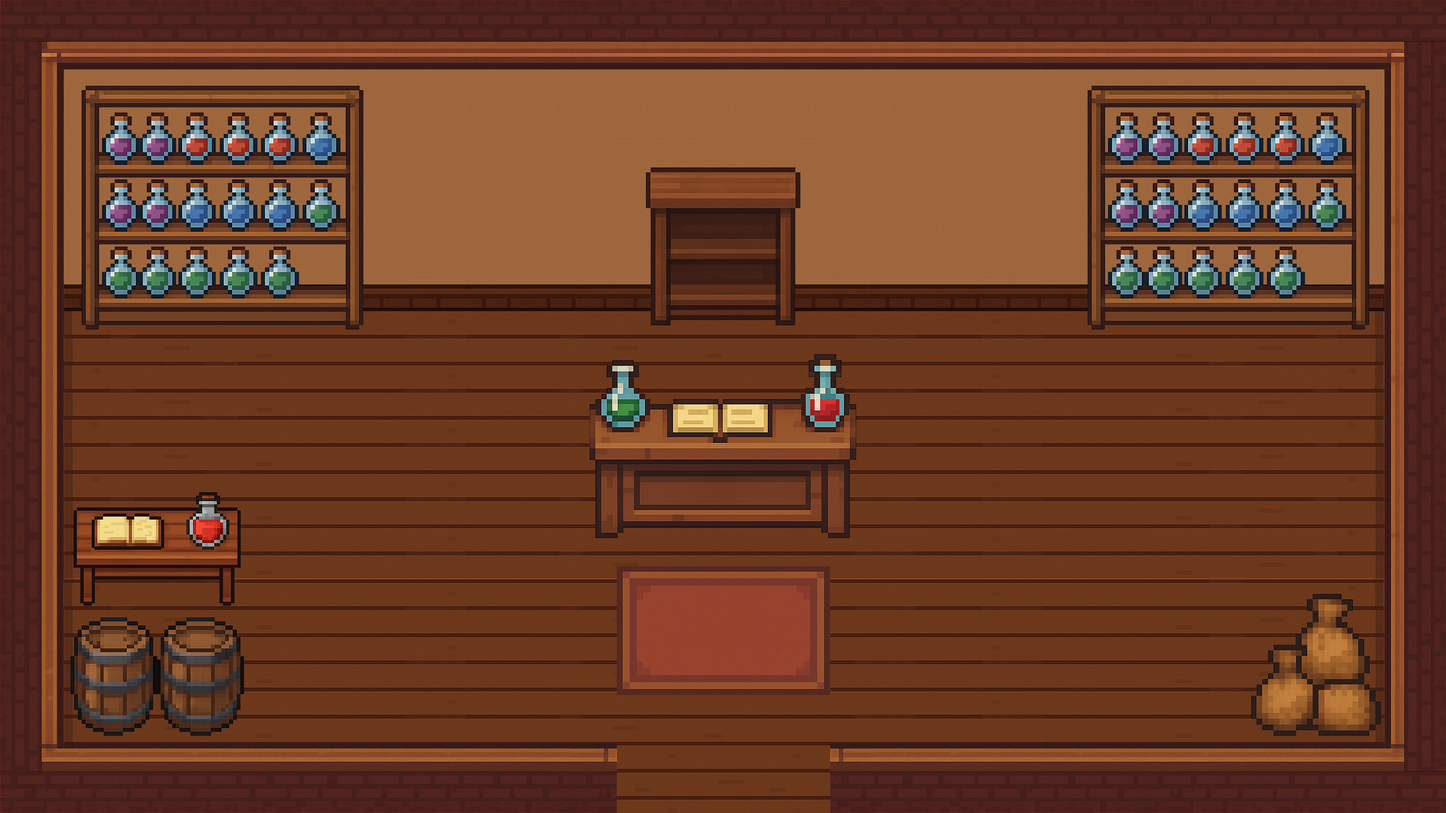
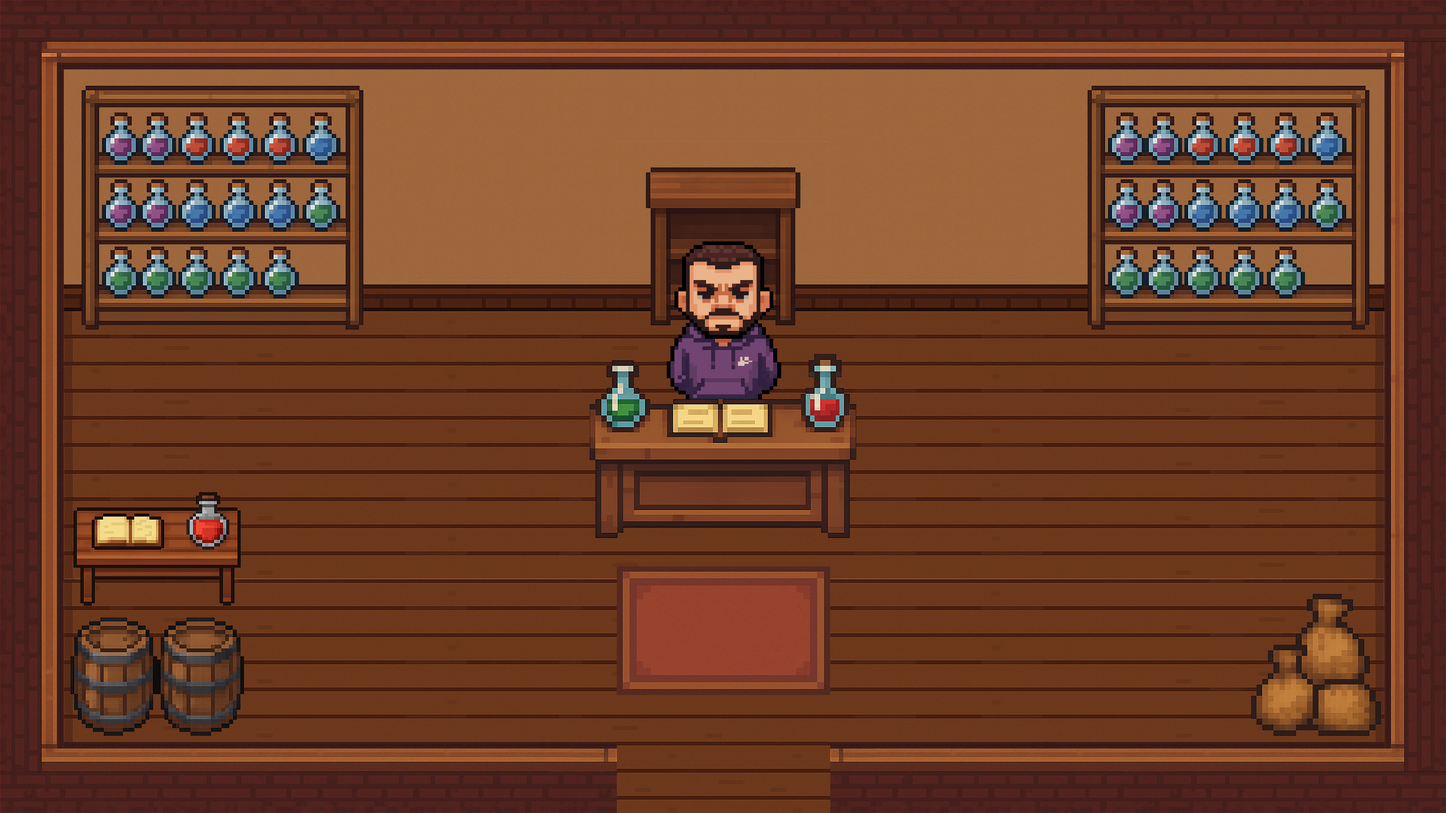
cooking

Changed region(s): [[0.4375, 0.2812, 0.5625, 0.5]]

diff --git a/scriptCleaner.js b/scriptCleaner.js
@@ -16,6 +16,8 @@ let lastTime = 0;
 let start = true;
 let rewardType;
 let screen = 1;
+let isTyping = false;
+let currentText = "";
 
 let scaleFactor;
 let scaledWidth;
@@ -189,7 +191,7 @@ controller = {
 function loop() {
     update();   // Handle game state updates
     render();   // Draw everything to the screen
-
+    
     requestAnimationFrame(loop); // Loop continues on the next frame
 }
 
@@ -227,7 +229,17 @@ function update() {
 
     }
 
+    if ((player.y >= 967) && (player.x >= 865) && (player.x <= 1056.5) && screen === 105) {
+        screen = 3
+        screenChange(3)
+        player.y = 680
+        document.getElementById("faces").src = "img/hud/faces/jericho.png";
+        document.getElementById("speakerName").innerText = "Jericho";
+        typeText("regularText", "");
+    }
 
+
+      
 
 
     //calculate grass so it can effect movement
@@ -387,11 +399,17 @@ function update() {
 
 let isBrowsingShop = false;
 
-document.addEventListener('keyup', (e) => {
+document.addEventListener("keyup", (e) => {
     if (e.code === "KeyE") {
 
+        if (isTyping) {
+            isTyping = false;
+            const element = document.getElementById("regularText");
+            element.textContent = currentText;
+            return;
+        }
 
-        interactable.forEach(int => {
+        interactable.forEach((int) => {
             if (collisionDetectionOverlap(player, int)) {
                 switch (int.type) {
                     case "shelf":
@@ -410,7 +428,9 @@ document.addEventListener('keyup', (e) => {
                             openShop();
                             return;
                         }
-
+                        document.getElementById("faces").src = "img/hud/faces/jeremy.png";
+                        document.getElementById("speakerName").innerText = "Jeremy";
+                        
                         if (firstStorePotionEnter === true) {
                             typeText("regularText", "Hello, I am Jeremy the potion maker. I can make you potions to help you on your journey. If you have the money of course. Press E to browse our selection of potions");
                             firstStorePotionEnter = false;
@@ -423,7 +443,7 @@ document.addEventListener('keyup', (e) => {
             }
         });
 
-        door.forEach(door => {
+        door.forEach((door) => {
             if (collisionDetectionOverlap(player, door)) {
                 switch (door.houseNum) {
                     case 1:
@@ -441,30 +461,53 @@ document.addEventListener('keyup', (e) => {
     }
 });
 
+
 function openShop() {
     typeText("regularText", "Welcome to the potion shop! Here are the items available:");
     document.getElementById("PotionShop").classList.add("show");
     document.getElementById("PotionShop").classList.remove("hidden");
+
 }
 
-document.getElementById("Close").addEventListener("click", () => {
+function closeShop() {
     document.getElementById("PotionShop").classList.remove("show");
     document.getElementById("PotionShop").classList.add("hidden");
     isBrowsingShop = false;
+}
+
+document.getElementById("Close").addEventListener("click", () => {
+    closeShop()
     typeText("regularText", "Thank you for visiting the potion shop! If you need anything else, just let me know.");
+    if (isTyping) {
+        isTyping = false;
+        const element = document.getElementById("regularText");
+        element.textContent = currentText;
+    }
 })
 
 
+
 function typeText(elementId, text, delay = 50) {
+
     const element = document.getElementById(elementId);
+    currentText = text;
     element.textContent = "";
     let index = 0;
+    isTyping = true;
 
     function typeNextChar() {
+        if (!isTyping) {
+
+            element.textContent = currentText;
+            return;
+        }
+
         if (index < text.length) {
             element.textContent += text[index];
             index++;
             setTimeout(typeNextChar, delay);
+        } else {
+            isTyping = false;
         }
     }
 
@@ -704,6 +747,9 @@ function screenChange(screen) {
 
             bg = new Image();
             bg.src = "img/bg/town.png";
+
+            hudChange("town")
+
             break;
         case 101:
             bg = new Image();
@@ -926,10 +972,16 @@ function enemyDie(attacker) {
 }
 
 function hudChange(form) {
+    
     if (form === "room") {
         document.getElementById("rightSide").style.animation = "stuff 2.5s forwards"
         setTimeout(() => document.getElementById("leftSide").style.animation = "Shrink 2s forwards", 800)
         setTimeout(() => document.getElementById("right").style.animation = "textWidth 1s forwards", 1200)
+    }
+
+    if (form === "town") {
+        document.getElementById("rightSide").style.animation = "gone 2.5s forwards"
+        setTimeout(() => document.getElementById("leftSide").style.animation = "grow 2s forwards", 800)
     }
 }
 

diff --git a/style.css b/style.css
@@ -10,6 +10,7 @@
     font-family: "Jersey 15", sans-serif;
     font-weight: 400;
     font-style: normal;
+    
 }
 
 #mainCanvas {
@@ -20,6 +21,7 @@
 
 body {
     margin: 0;
+    overflow-x: hidden;
 }
 
 main{
@@ -65,6 +67,11 @@ main{
     100% {left: -30%}
 }
 
+@keyframes grow {
+    0% {left: -30%}
+    100% {left: 0;}
+    
+}
 #healthBarContainer {
 
     position: relative;
@@ -202,7 +209,8 @@ position: absolute;
 }
 
 #rightside{
-    margin-right: 30px;
+    margin-right: 0px;
+    
     position: absolute;
     display: flex;
     align-items: center;
@@ -211,14 +219,23 @@ position: absolute;
     margin-left: 10px;
     border-radius: 20px;
     width: 30%;
-    right: 0;
+    right: -620px;
 }
 
 @keyframes stuff {
-    0% {width: 30%;}
-    100% {width:98%;}
+    0% {width: 30%;
+    right: -620px;}
+    100% {width:98%;
+    right: 0px;}
 }
 
+@keyframes gone {
+    0% {width:98%;
+        right: 0px;}
+    100% {width: 30%;
+    right: -620px;}
+    
+}
 
 
 #bottomSpot{
@@ -235,6 +252,13 @@ position: absolute;
     height: 106px;
     
     
+}
+
+#left > img{
+    width: 100%;
+    height: 100%;
+    
+   
 }
 
 #right{
